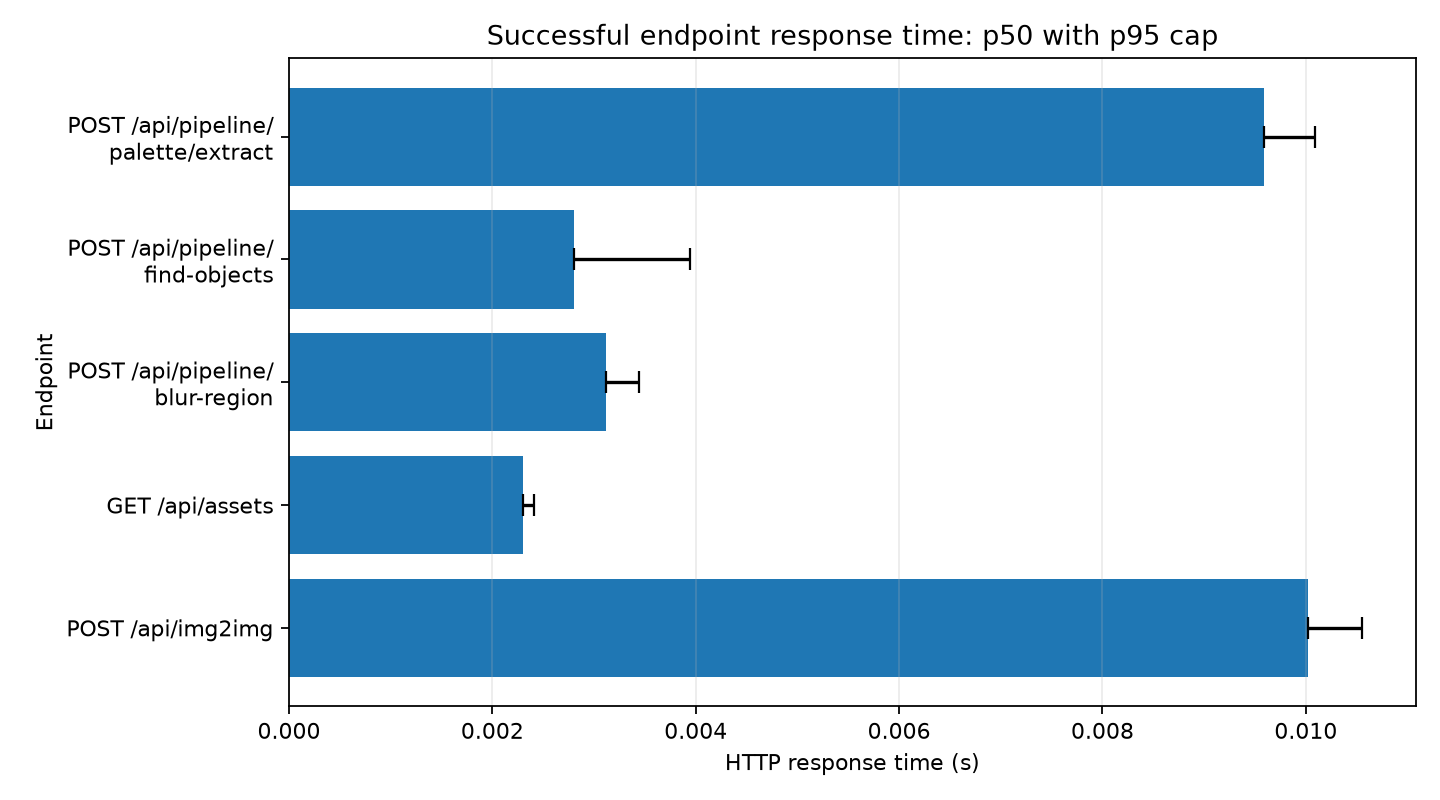
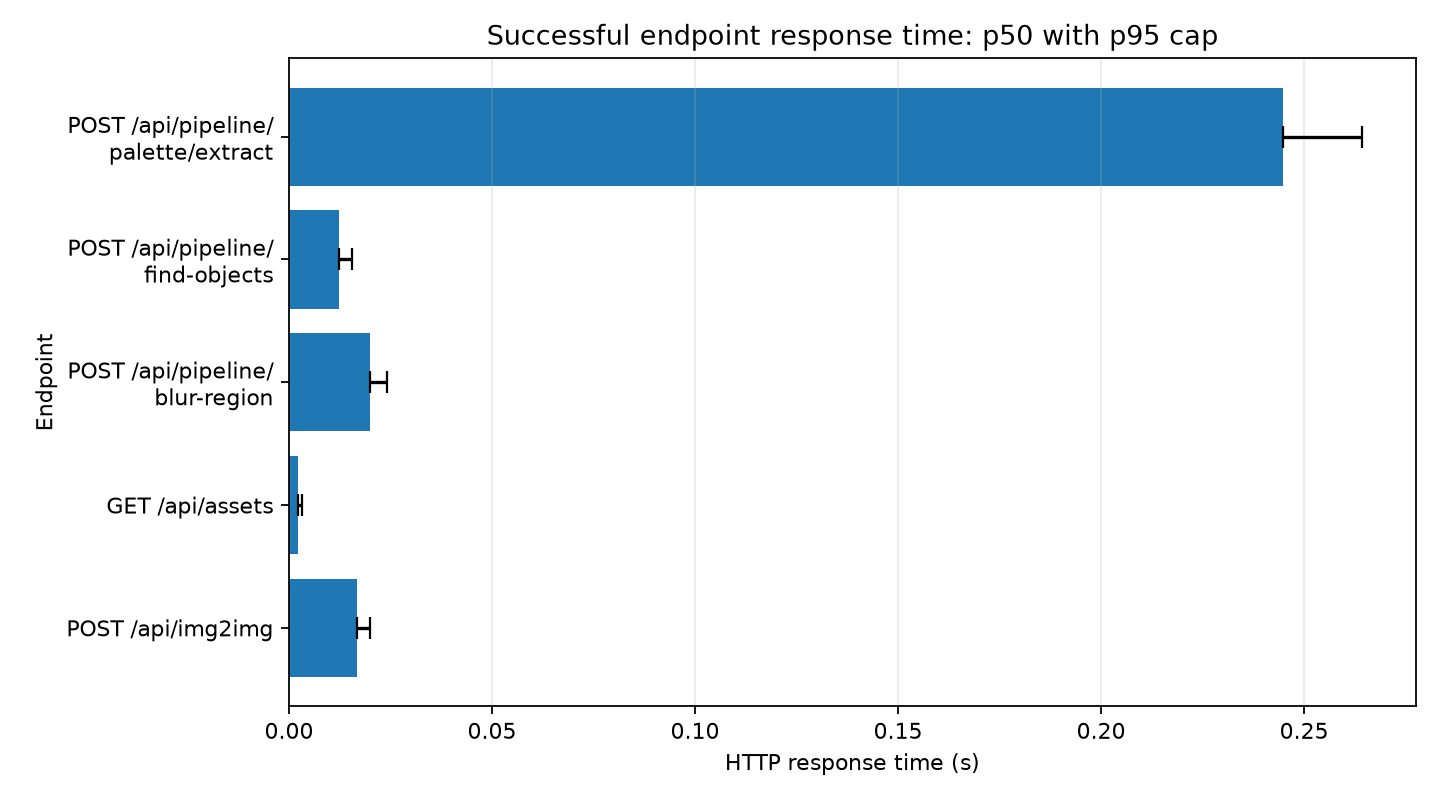
perf(pipeline): benchmark representative image size (#68)

diff --git a/services/ai-engine/pipeline/05_evaluation/benchmark_baseline.py b/services/ai-engine/pipeline/05_evaluation/benchmark_baseline.py
@@ -405,29 +405,34 @@ def record_queue_comparison(output_dir, backend_url, ai_url, batches=3,
     return summary
 
 
-def _benchmark_image():
-    """Return a small deterministic PNG as plain base64 for endpoint timing."""
-    image = np.zeros((128, 128, 3), dtype=np.uint8)
-    image[:, :64] = (30, 90, 220)
-    image[:, 64:] = (60, 190, 80)
-    cv2.circle(image, (64, 64), 28, (230, 60, 60), thickness=-1)
+def _benchmark_image(image_size):
+    """Return a deterministic blurred-noise PNG with realistic image content."""
+    noise = np.random.default_rng(68).integers(
+        0, 256, (image_size, image_size, 3), dtype=np.uint8)
+    image = cv2.GaussianBlur(noise, (15, 15), 0)
     encoded, png = cv2.imencode(".png", image)
     if not encoded:
         raise ValueError("could not encode the endpoint benchmark image")
     return base64.b64encode(png.tobytes()).decode("ascii")
 
 
-def record_endpoint_baseline(output_dir, backend_url, repeats=10, timeout=180):
+def record_endpoint_baseline(output_dir, backend_url, repeats=10, timeout=180,
+                             image_size=512):
     """Measure successful HTTP responses for the five unreported user endpoints."""
     if isinstance(repeats, bool) or not isinstance(repeats, int) or repeats < 2:
         raise ValueError("repeats must be an integer of at least 2")
     if isinstance(timeout, bool) or not isinstance(timeout, (int, float)) or timeout <= 0:
         raise ValueError("timeout must be positive")
+    if (isinstance(image_size, bool) or not isinstance(image_size, int)
+            or not 64 <= image_size <= 2048):
+        raise ValueError("image_size must be an integer from 64 to 2048")
 
     output_dir.mkdir(parents=True, exist_ok=True)
     backend = backend_url.rstrip("/")
     session = _authenticated_session(backend)
-    image = _benchmark_image()
+    image = _benchmark_image(image_size)
+    region_start = image_size // 4
+    region_size = image_size // 2
 
     endpoint_specs = (
         {
@@ -458,7 +463,12 @@ def record_endpoint_baseline(output_dir, backend_url, repeats=10, timeout=180):
             "path": "/api/pipeline/blur-region",
             "payload": {
                 "image": image,
-                "region": {"x": 24, "y": 24, "width": 80, "height": 80},
+                "region": {
+                    "x": region_start,
+                    "y": region_start,
+                    "width": region_size,
+                    "height": region_size,
+                },
                 "size": 15,
             },
             "valid": lambda body: isinstance(body.get("image"), str)
@@ -558,7 +568,7 @@ def record_endpoint_baseline(output_dir, backend_url, repeats=10, timeout=180):
         "repeats_per_endpoint": repeats,
         "warmup_requests_per_endpoint": 1,
         "timeout_s": timeout,
-        "input_image_px": [128, 128],
+        "input_image_px": [image_size, image_size],
         "img2img_steps": 20,
         "img2img_seed": 6800,
         "machine": platform.platform(),
@@ -588,6 +598,8 @@ def main():
                         help="Measure generation time by steps; use only with a real Forge target")
     parser.add_argument("--measure-endpoints", action="store_true",
                         help="Measure successful backend endpoint response times")
+    parser.add_argument("--endpoint-image-size", type=int, default=512,
+                        help="Square input size for --measure-endpoints (default: 512)")
     parser.add_argument("--sampler-name", default="DPM++ 2M")
     parser.add_argument("--scheduler", default="Karras")
     parser.add_argument("--forge-model", default="record when running")
@@ -612,6 +624,7 @@ def main():
             arguments.backend_url,
             repeats=arguments.repeats,
             timeout=arguments.timeout,
+            image_size=arguments.endpoint_image_size,
         )
         print(f"Endpoints: measured {len(summary)} routes")
     if arguments.measure_real_steps or (arguments.ai_url and not arguments.backend_url):

diff --git a/services/ai-engine/tests/test_benchmark_baseline.py b/services/ai-engine/tests/test_benchmark_baseline.py
@@ -112,6 +112,7 @@ def test_endpoint_baseline_records_each_route_and_balances_order(tmp_path, monke
         "http://backend.test/",
         repeats=5,
         timeout=10,
+        image_size=512,
     )
 
     assert len(summary) == 5
@@ -131,12 +132,21 @@ def test_endpoint_baseline_records_each_route_and_balances_order(tmp_path, monke
         assert (tmp_path / filename).is_file()
 
 
-@pytest.mark.parametrize(("repeats", "timeout"), [(1, 10), (True, 10), (5, 0), (5, True)])
-def test_endpoint_baseline_rejects_invalid_settings(tmp_path, repeats, timeout):
+@pytest.mark.parametrize(("repeats", "timeout", "image_size"), [
+    (1, 10, 512),
+    (True, 10, 512),
+    (5, 0, 512),
+    (5, True, 512),
+    (5, 10, 32),
+    (5, 10, True),
+])
+def test_endpoint_baseline_rejects_invalid_settings(
+        tmp_path, repeats, timeout, image_size):
     with pytest.raises(ValueError):
         benchmark.record_endpoint_baseline(
             tmp_path,
             "http://backend.test",
             repeats=repeats,
             timeout=timeout,
+            image_size=image_size,
         )

diff --git a/services/ai-engine/samples/benchmark/QUEUE_REPORT.md b/services/ai-engine/samples/benchmark/QUEUE_REPORT.md
@@ -35,20 +35,20 @@ Raw trials are in `queue_comparison_raw.csv`; exact summary values are in
 The queue run already measured the synchronous txt2img request, queued generate
 submission, and job-status polling. A second local run measured the five
 remaining user-facing endpoints identified in issue #68. It used a backend on a
-fresh Alembic database, the local AI engine, a deterministic 128×128 PNG, and a
-zero-delay mock Forge. Each endpoint received one excluded warm-up followed by
-10 measured requests in a rotating order.
+fresh Alembic database, the local AI engine, a deterministic 512×512
+blurred-noise PNG, and a zero-delay mock Forge. Each endpoint received one
+excluded warm-up followed by 10 measured requests in a rotating order.
 
 | Endpoint | Samples | p50 | p95 |
 |---|---:|---:|---:|
 | `POST ai-engine /forge/txt2img` (fixed 10 s mock delay) | 15 | 10.036 s | 10.090 s |
 | `POST /api/generate` (queued 202) | 15 | 0.0169 s | 0.0219 s |
 | `GET /api/jobs/<id>` (poll) | 1,667 | 0.00543 s | 0.00985 s |
-| `POST /api/img2img` | 10 | 0.0100 s | 0.0106 s |
-| `GET /api/assets` | 10 | 0.00230 s | 0.00241 s |
-| `POST /api/pipeline/blur-region` | 10 | 0.00312 s | 0.00345 s |
-| `POST /api/pipeline/find-objects` | 10 | 0.00280 s | 0.00394 s |
-| `POST /api/pipeline/palette/extract` | 10 | 0.00959 s | 0.01009 s |
+| `POST /api/img2img` | 10 | 0.0167 s | 0.0201 s |
+| `GET /api/assets` | 10 | 0.00231 s | 0.00314 s |
+| `POST /api/pipeline/blur-region` | 10 | 0.0201 s | 0.0242 s |
+| `POST /api/pipeline/find-objects` | 10 | 0.0124 s | 0.0155 s |
+| `POST /api/pipeline/palette/extract` | 10 | 0.2447 s | 0.2643 s |
 
 ![Successful endpoint response time](endpoint_latency.png)
 
@@ -59,6 +59,15 @@ storage, and its database insert. Because the goal is application endpoint
 overhead, these five measurements use the local mock rather than a public
 tunnel. Raw trials, exact statistics, and environment details are stored in the
 corresponding `endpoint_latency_*` files.
+
+Palette extraction is the clear bottleneck at a representative 512×512 input:
+its 0.2447-second median on this Mac is about **12.2×** the next-slowest pipeline
+route, region blur. An independent Windows 11 run with the same benchmark and
+blurred-noise input measured palette extraction at 28.0 ms for 128×128, 667.5 ms
+for 512×512, and 2,542.9 ms for 1024×1024. That is about a **90.8×** increase
+from 128 to 1024 pixels per side. Absolute latency is machine-dependent, but
+both runs show that palette extraction scales steeply with image size and is the
+first endpoint to optimize if interactive response time becomes a requirement.
 
 ## Filter timing
 

diff --git a/services/ai-engine/pipeline/05_evaluation/README.md b/services/ai-engine/pipeline/05_evaluation/README.md
@@ -84,15 +84,18 @@ the Alembic migration chain. Then run:
 python services/ai-engine/pipeline/05_evaluation/benchmark_baseline.py \
   --output services/ai-engine/samples/benchmark \
   --backend-url http://127.0.0.1:5000 \
-  --measure-endpoints --repeats 10
+  --measure-endpoints --repeats 10 --endpoint-image-size 512
 ```
 
-This sends one excluded warm-up and ten measured requests to `/api/img2img`,
+This sends a representative 512×512 blurred-noise PNG through one excluded
+warm-up and ten measured requests to `/api/img2img`,
 `/api/assets`, `/api/pipeline/blur-region`, `/api/pipeline/find-objects`, and
 `/api/pipeline/palette/extract`. The order rotates between trials so every route
 occupies every position twice. The saved CSVs and labeled graph report p50 and
 p95 for valid responses. The pipeline routes execute the real local algorithms;
 the mock Forge keeps img2img timing independent of public-network latency.
+Use `--endpoint-image-size 1024` for a second run at the largest supported
+generation size.
 
 When real Forge is available, add `--measure-real-steps`. This separately
 measures generation at 10, 20, and 30 steps and verifies that every response
